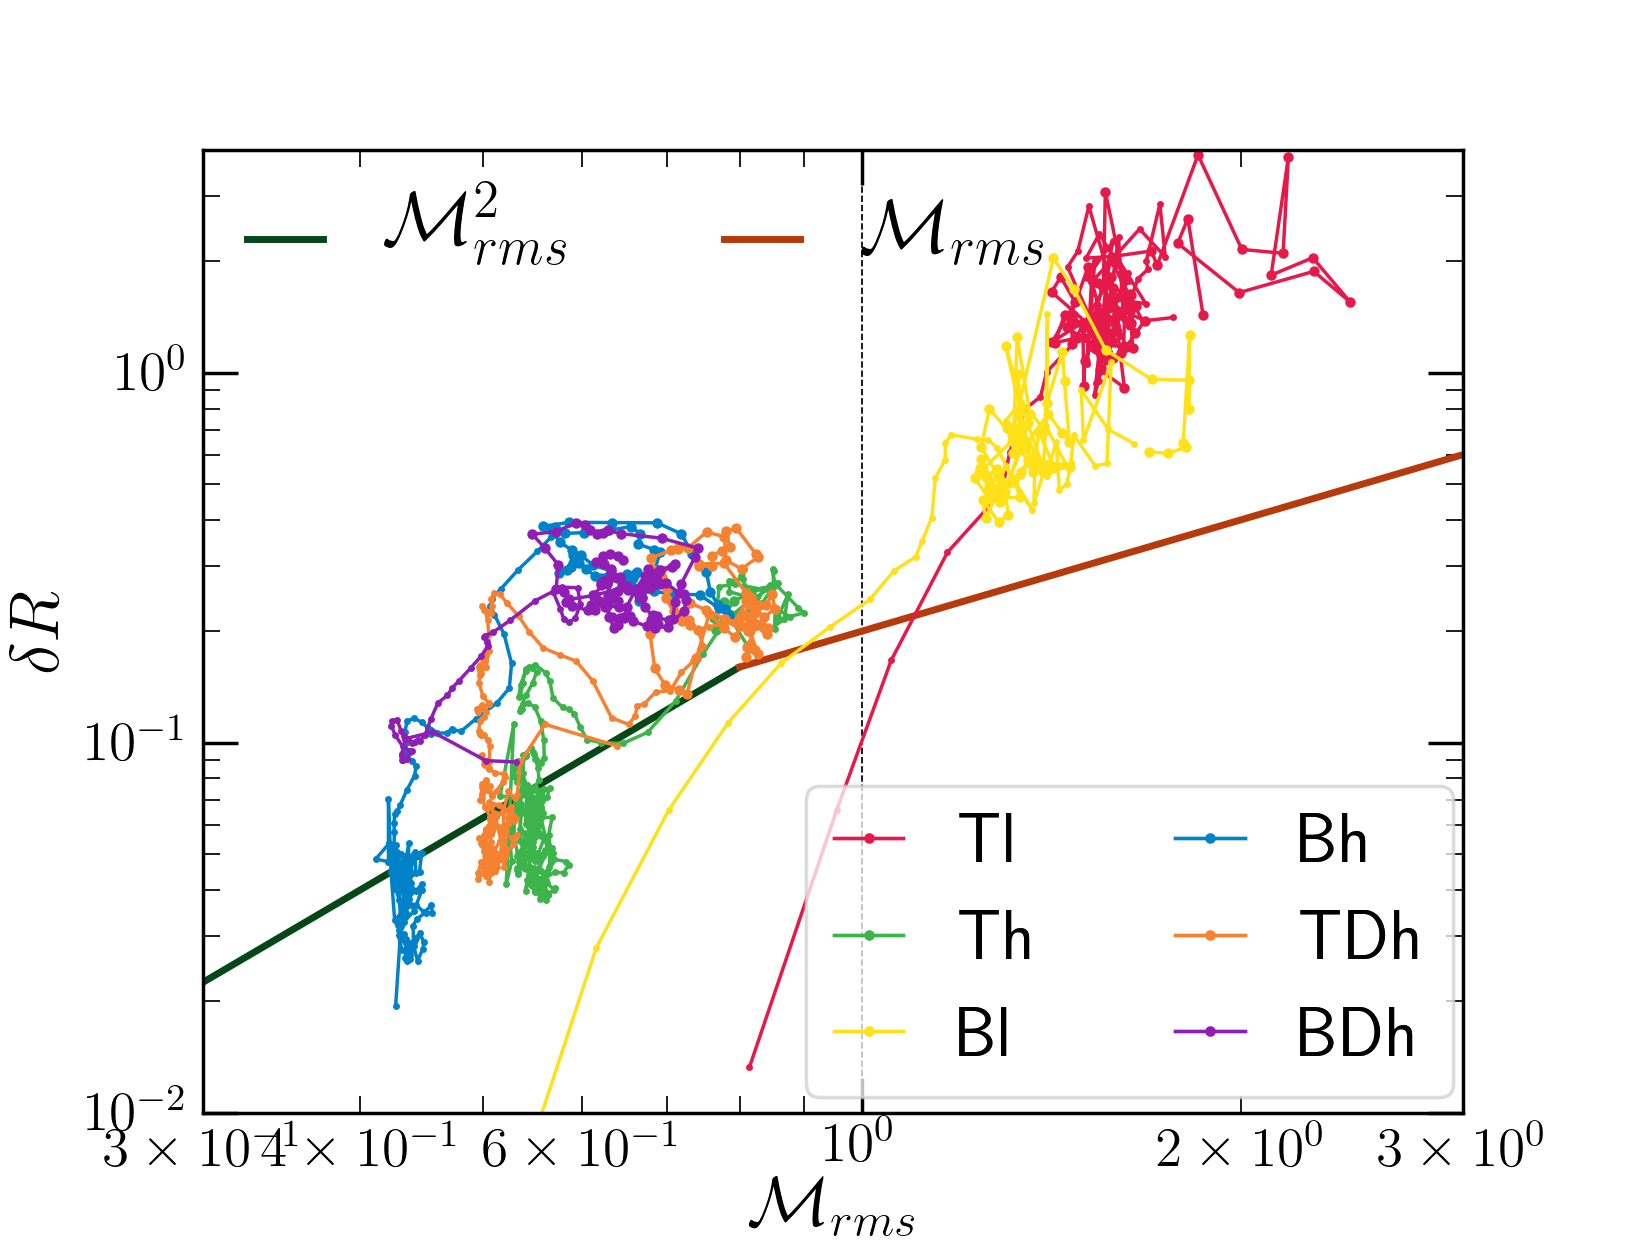
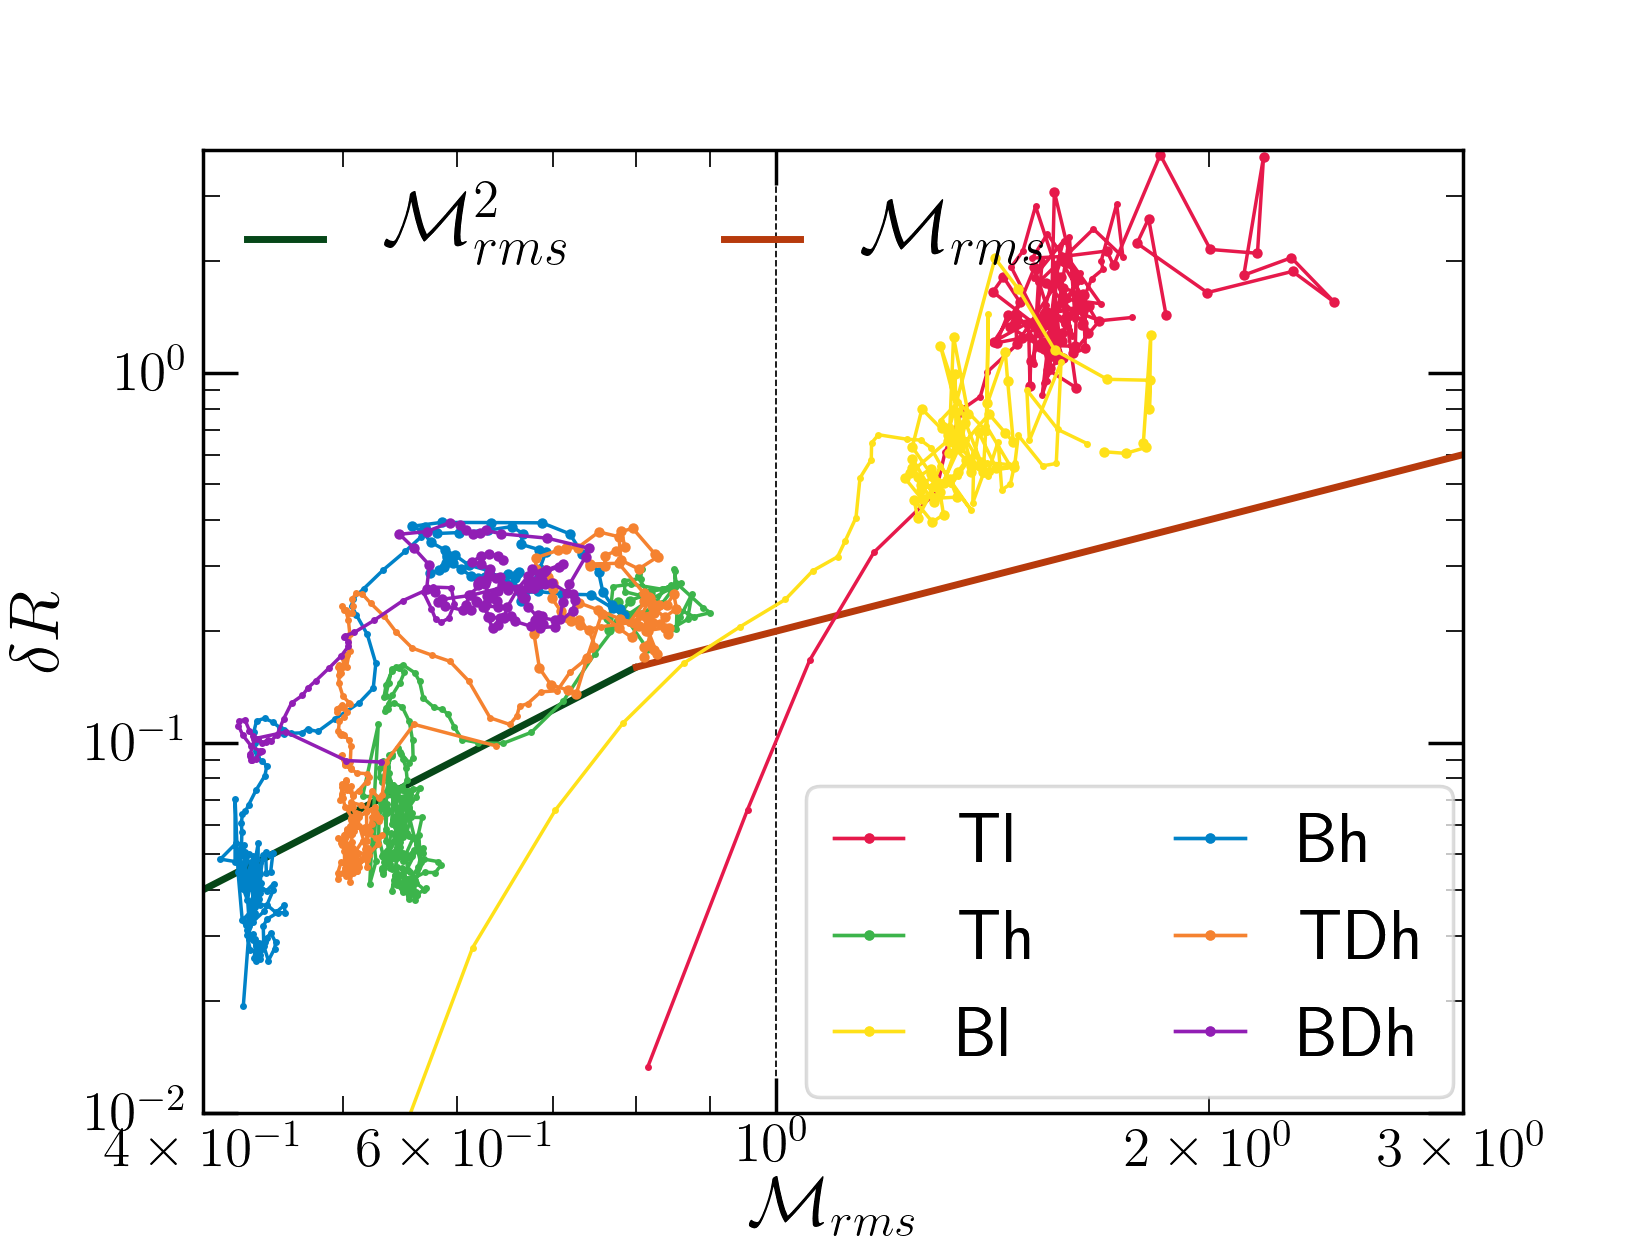
Edited plots

diff --git a/rho-mach/density_mach_all.py b/rho-mach/density_mach_all.py
@@ -10,8 +10,8 @@ plt.rcParams['xtick.major.size'] = 16
 plt.rcParams['xtick.minor.size'] = 8
 plt.rcParams['ytick.major.size'] = 14
 plt.rcParams['ytick.minor.size'] = 7
-plt.rcParams['xtick.labelsize'] = 17
-plt.rcParams['ytick.labelsize'] = 17
+plt.rcParams['xtick.labelsize'] = 17.
+plt.rcParams['ytick.labelsize'] = 17.
 plot.rcParams.update(params)
 
 plt.rc('text', usetex=True)
@@ -44,13 +44,13 @@ ax.set_ylabel(r'$\delta R$', fontsize=20)
 x1=np.arange(0.3,0.8,0.002)
 y=np.arange(0.8,3.,0.002)
 
-fit[0],= ax.plot(x1,0.6*x1**2,label=r'$\mathcal{M}_{rms}^2$', color=colors[9], linewidth=2.)
-fit[1],= ax.plot(y,0.48*y**1,label=r'$\mathcal{M}_{rms}$', color=colors[6], linewidth=2.)
+fit[0],= ax.plot(x1,0.6/1.5*x1**2,label=r'$\mathcal{M}_{rms}^2$', color=colors[9], linewidth=2.)
+fit[1],= ax.plot(y,0.48/1.5*y**1,label=r'$\mathcal{M}_{rms}$', color=colors[6], linewidth=2.)
 
 ax.set_yscale('log')
 ax.set_xscale('log')
 #ax.set_title(r'$\frac{\left<\delta\rho\right>_{rms}}{\left<\rho\right>}$ and $\frac{\left<\delta P\right>_{rms}}{\left< P\right>}$  vs $\left< \mathcal{M}\right>_{rms}$')
-ax.set_xlim(3e-1,3.)
+ax.set_xlim(4e-1,3.)
 ax.set_ylim(0.03,1.)
 
 

diff --git a/surface_brightness/sb_mach_all.py b/surface_brightness/sb_mach_all.py
@@ -50,7 +50,7 @@ fit[1],= ax.plot(y,0.2*y**1,label=r'$\mathcal{M}_{rms}$', color=colors[6], linew
 ax.set_yscale('log')
 ax.set_xscale('log')
 #ax.set_title(r'$\frac{\left<\delta\rho\right>_{rms}}{\left<\rho\right>}$ and $\frac{\left<\delta P\right>_{rms}}{\left< P\right>}$  vs $\left< \mathcal{M}\right>_{rms}$')
-ax.set_xlim(3e-1,3.)
+ax.set_xlim(4e-1,3.)
 ax.set_ylim(1e-2,4.)
 
 
